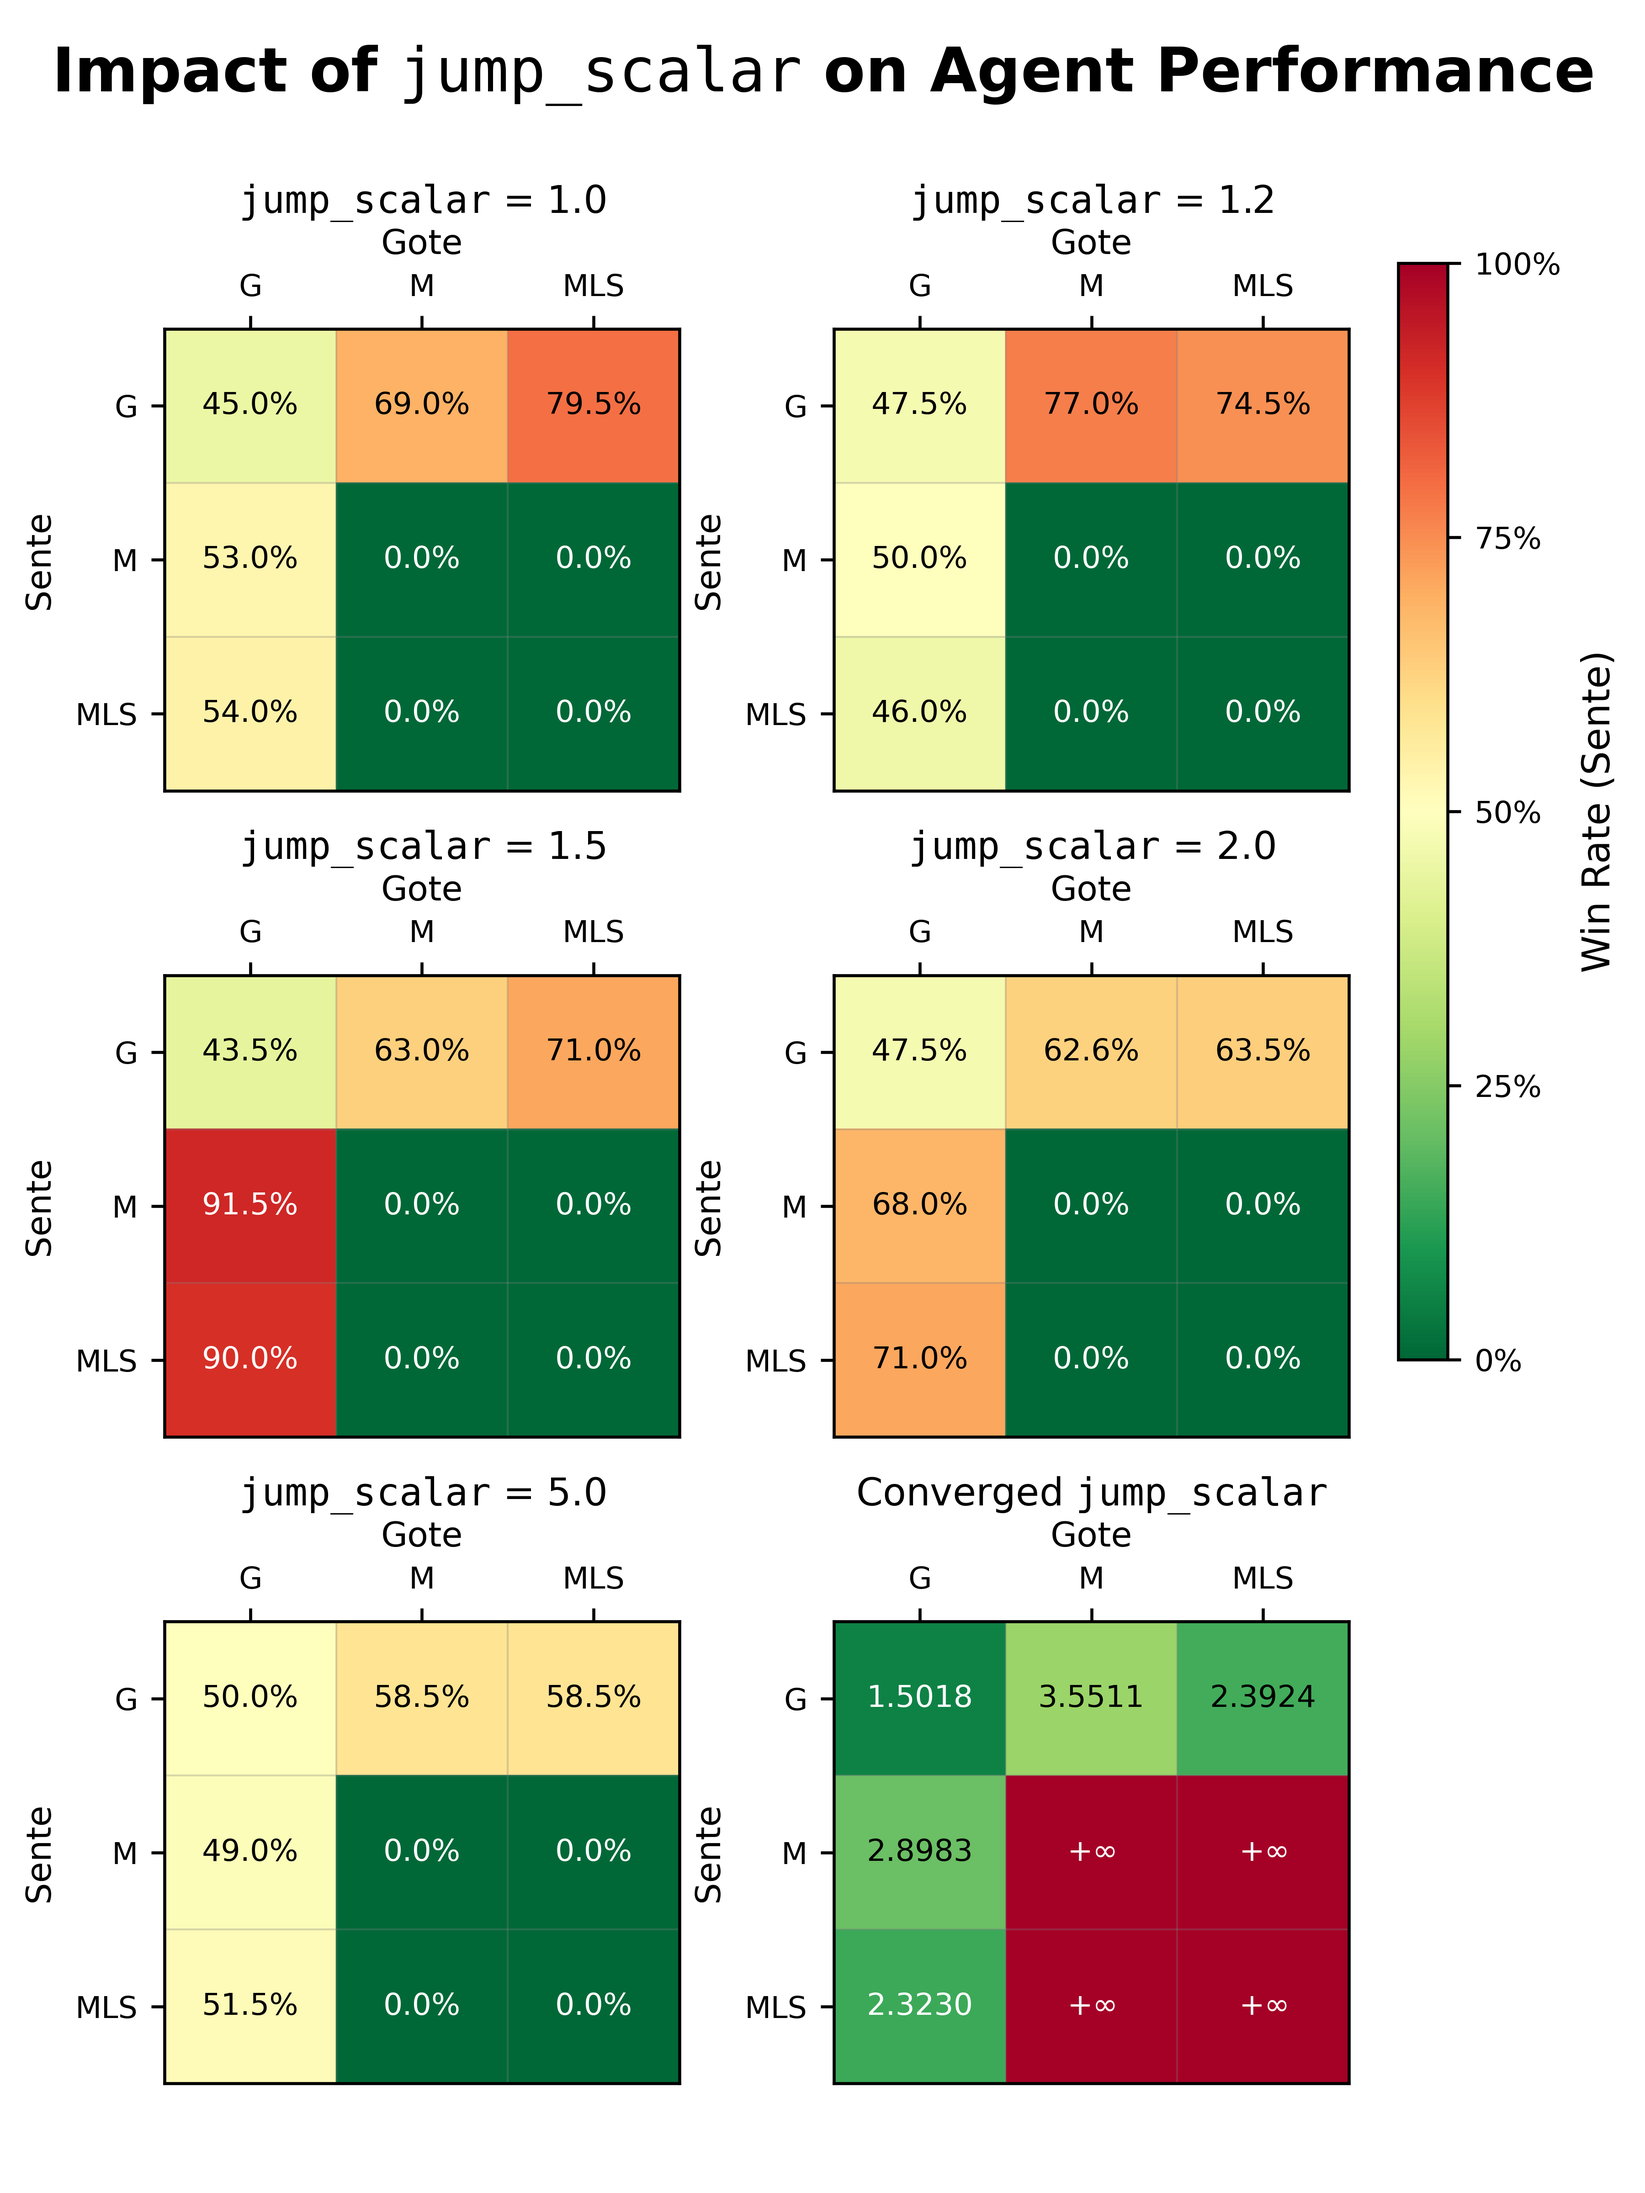
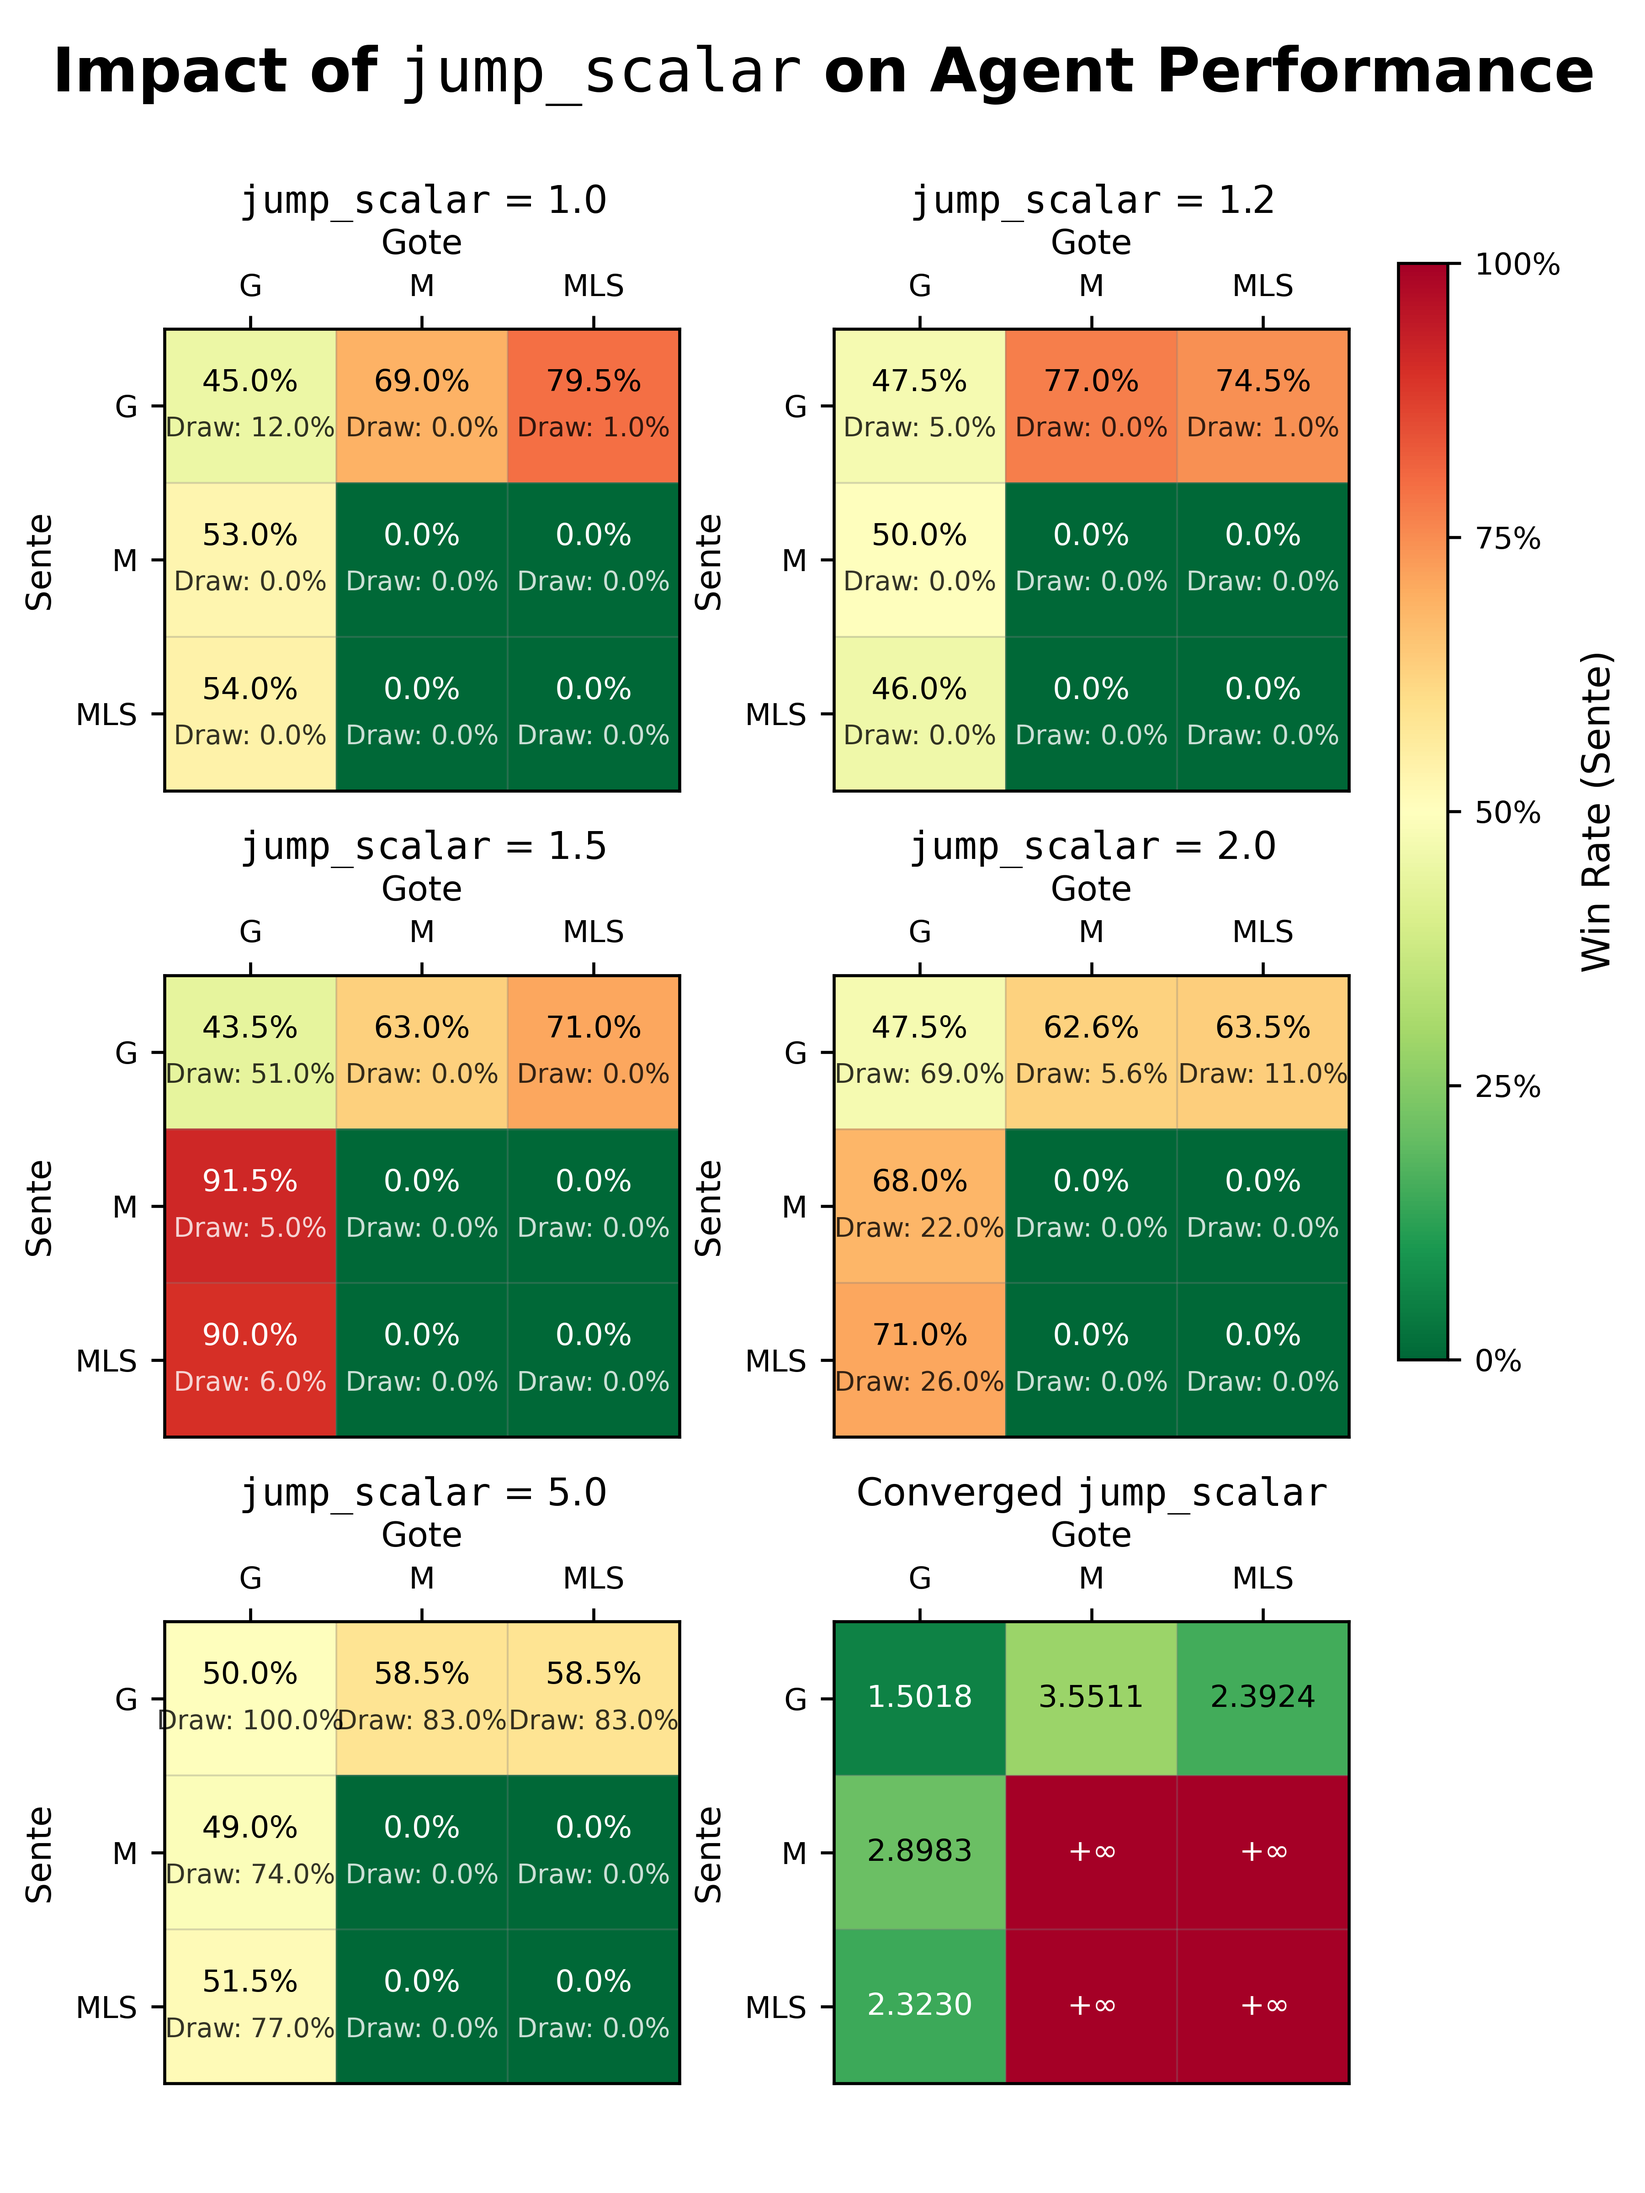
Update image: add draw

diff --git a/src/plot_misc.py b/src/plot_misc.py
@@ -96,6 +96,11 @@ def plot_heatmap_subplot(ax, data_dict, sente_agents, gote_agents, title_str,
     diff_df = pd.DataFrame(diff_values, index=sente_agents, columns=gote_agents)
 
     diff_percentage = ((diff_df + 1) / 2 * 100).round(1)
+    
+    # Calculate draw percentage
+    draw_percentage = np.where(total_games_df.values == 0, 0.0,
+                              draws_df.values / total_games_df.values * 100)
+    draw_percentage_df = pd.DataFrame(draw_percentage, index=sente_agents, columns=gote_agents)
 
     im = ax.imshow(diff_df, cmap='RdYlGn_r', vmin=-1, vmax=1, aspect='auto')
 
@@ -120,9 +125,17 @@ def plot_heatmap_subplot(ax, data_dict, sente_agents, gote_agents, title_str,
             text_color = "white" if abs(cell_value) > 0.6 else "black"
             
             percentage_text = f"{diff_percentage.iat[i, j]:.1f}%"
-            ax.text(j, i, percentage_text,
+            draw_text = f"Draw: {draw_percentage_df.iat[i, j]:.1f}%"
+            
+            # Display win rate in upper part of cell
+            ax.text(j, i-0.15, percentage_text,
                     ha="center", va="center",
                     color=text_color, fontsize=cell_text_fs, weight='normal')
+            
+            # Display draw rate in lower part of cell
+            ax.text(j, i+0.15, draw_text,
+                    ha="center", va="center",
+                    color=text_color, fontsize=cell_text_fs-1, weight='normal', alpha=0.8)
     
     ax.set_title(title_str, fontsize=title_fs, pad=4)
     return im
